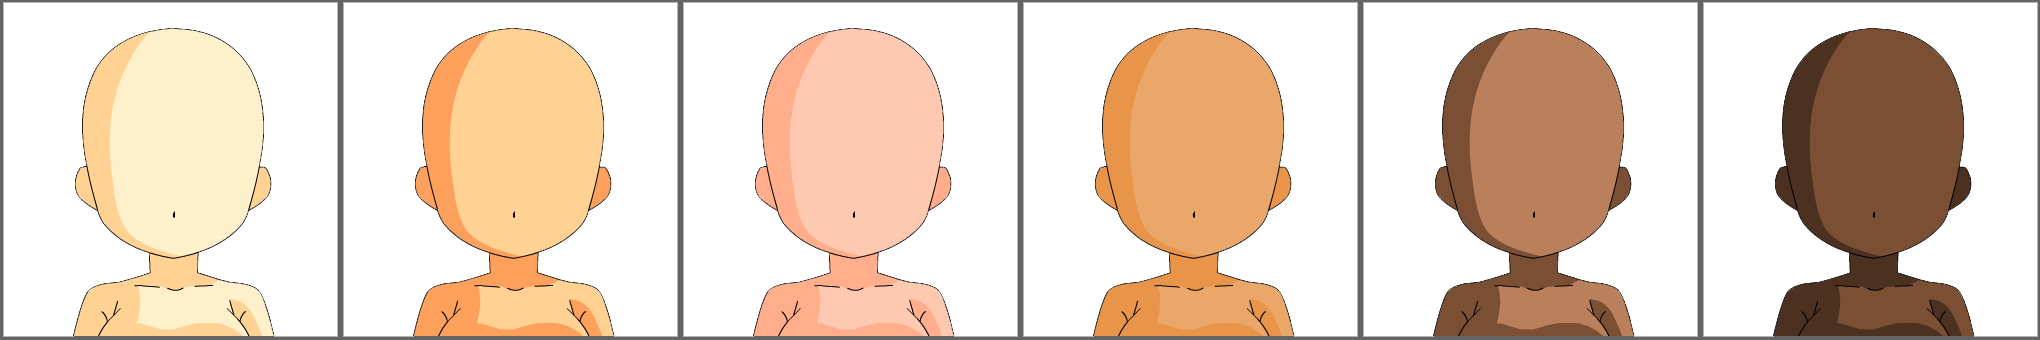
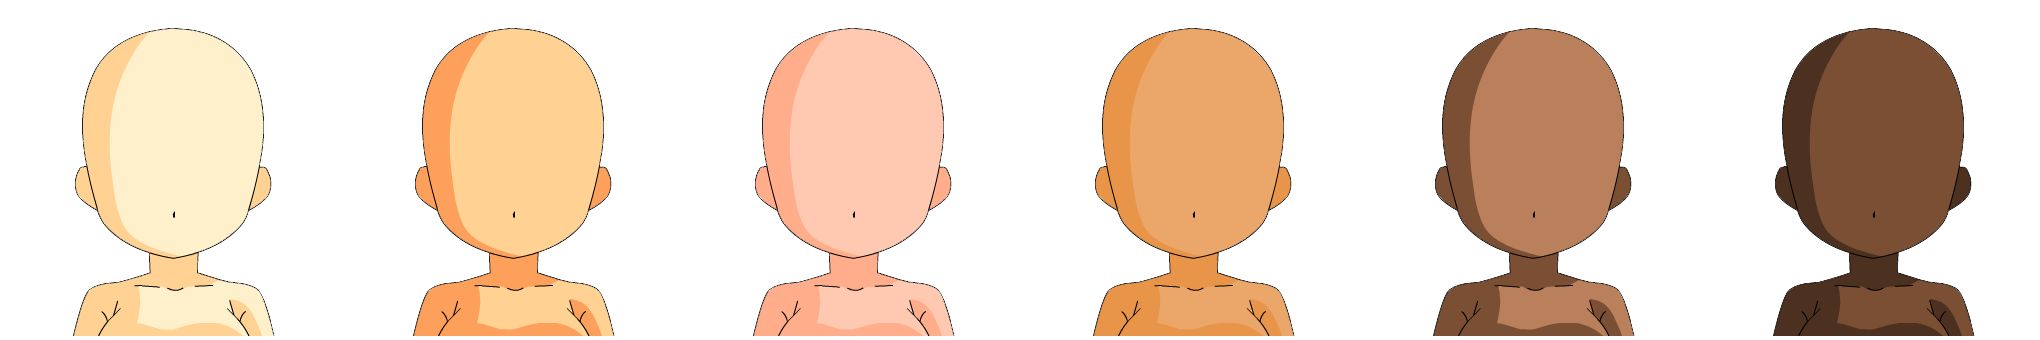
update

Changed region(s): [[0.0, 0.0, 1.0, 1.0]]

diff --git a/js/main.js b/js/main.js
@@ -24,9 +24,9 @@ var canvas3, ctx3;
 var canvas4, ctx4;
 var oBody, oLeg, oFoot, oAccessory, oBackground;
 
-var bodyScale = 0.5;
-var headPosX = 100;
-var headPosY = 100;
+var headScale = 0.35;
+var headPosX = 115;
+var headPosY = 0;
 
 //unknow
 var iSel = 0;
@@ -273,9 +273,12 @@ function clear() {
 
 function drawScene() {
     clear();
+    //ctx3
+    ctx3.drawImage(oBody.image, oBody.x2 + oBody.iSpr * oBody.w, oBody.y2, oBody.w, oBody.h, oBody.x, oBody.y, oBody.w, oBody.h);
+
     //ctx
     ctx.drawImage(oHead.image, oHead.x2 + oHead.iSpr * oHead.w, oHead.y2, oHead.w, oHead.h, oHead.x, oHead.y, oHead.w, oHead.h);
-    ctx3.drawImage(oHead.image, oHead.x2 + oHead.iSpr * oHead.w, oHead.y2, oHead.w, oHead.h, oHead.x, oHead.y, oHead.w*bodyScale, oHead.h*bodyScale);
+    ctx3.drawImage(oHead.image, oHead.x2 + oHead.iSpr * oHead.w, oHead.y2, oHead.w, oHead.h, oHead.x+headPosX, oHead.y+headPosY, oHead.w*headScale, oHead.h*headScale);
 
     //ctx.drawImage(oTop.image, oTop.x2 + oTop.iSpr * oTop.w, oTop.y2, oTop.w, oTop.h, oTop.x, oTop.y, oTop.w, oTop.h);
     // if (oColorTop.iPos > 0) {
@@ -294,7 +297,7 @@ function drawScene() {
     // }
 
     ctx.drawImage(oEyebrow.image, oEyebrow.x2 + oEyebrow.iSpr * oEyebrow.w, oEyebrow.y2, oEyebrow.w, oEyebrow.h, oEyebrow.x, oEyebrow.y, oEyebrow.w, oEyebrow.h);
-    ctx3.drawImage(oEyebrow.image, oEyebrow.x2 + oEyebrow.iSpr * oEyebrow.w, oEyebrow.y2, oEyebrow.w, oEyebrow.h, oEyebrow.x, oEyebrow.y, oEyebrow.w*bodyScale, oEyebrow.h*bodyScale);
+    ctx3.drawImage(oEyebrow.image, oEyebrow.x2 + oEyebrow.iSpr * oEyebrow.w, oEyebrow.y2, oEyebrow.w, oEyebrow.h, oEyebrow.x+headPosX, oEyebrow.y+headPosY, oEyebrow.w*headScale, oEyebrow.h*headScale);
     if (oColorEyebrow.iPos > 0) {
         var iCp = oColorEyebrow.iPos;
         var zdata = ctx.getImageData(0, 110, 340, 60);
@@ -313,7 +316,7 @@ function drawScene() {
 
 
     ctx.drawImage(oEye.image, oEye.x2 + oEye.iSpr * oEye.w, oEye.y2, oEye.w, oEye.h, oEye.x, oEye.y, oEye.w, oEye.h);
-    ctx3.drawImage(oEye.image, oEye.x2 + oEye.iSpr * oEye.w, oEye.y2, oEye.w, oEye.h, oEye.x, oEye.y, oEye.w*bodyScale, oEye.h*bodyScale);
+    ctx3.drawImage(oEye.image, oEye.x2 + oEye.iSpr * oEye.w, oEye.y2, oEye.w, oEye.h, oEye.x+headPosX, oEye.y+headPosY, oEye.w*headScale, oEye.h*headScale);
 
     if (oColorEye.iPos > 0) {
         var iCp = oColorEye.iPos;
@@ -347,7 +350,7 @@ function drawScene() {
     }
     //ctx2
     ctx2.drawImage(oFringe.image, oFringe.x2 + oFringe.iSpr * oFringe.w, oFringe.y2, oFringe.w, oFringe.h, oFringe.x, oFringe.y, oFringe.w, oFringe.h);
-    ctx3.drawImage(oFringe.image, oFringe.x2 + oFringe.iSpr * oFringe.w, oFringe.y2, oFringe.w, oFringe.h, oFringe.x, oFringe.y, oFringe.w*bodyScale, oFringe.h*bodyScale);
+    ctx3.drawImage(oFringe.image, oFringe.x2 + oFringe.iSpr * oFringe.w, oFringe.y2, oFringe.w, oFringe.h, oFringe.x+headPosX, oFringe.y+headPosY, oFringe.w*headScale, oFringe.h*headScale);
 
     if (oColors.iPos > 0) {
         var iCp = oColors.iPos;
@@ -380,7 +383,7 @@ function drawScene() {
         ctx3.putImageData(zdata, 0, 0);
     }
     ctx.drawImage(oMouth.image, oMouth.x2 + oMouth.iSpr * oMouth.w, oMouth.y2, oMouth.w, oMouth.h, oMouth.x, oMouth.y, oMouth.w, oMouth.h);
-    ctx3.drawImage(oMouth.image, oMouth.x2 + oMouth.iSpr * oMouth.w, oMouth.y2, oMouth.w, oMouth.h, oMouth.x, oMouth.y, oMouth.w*bodyScale, oMouth.h*bodyScale);
+    ctx3.drawImage(oMouth.image, oMouth.x2 + oMouth.iSpr * oMouth.w, oMouth.y2, oMouth.w, oMouth.h, oMouth.x+headPosX, oMouth.y+headPosY, oMouth.w*headScale, oMouth.h*headScale);
 
 
 
@@ -449,15 +452,15 @@ $(function() {
     var oBodyImage = new Image();
     oBodyImage.src = website_url + 'data/' + gender + 'body.png';
     oBodyImage.onload = function(){};
-    var oLegImage = new Image();
-    oLegImage.src = website_url + 'data/' + gender + 'leg.png';
-    oLegImage.onload = function(){};
-    var oFootImage = new Image();
-    oFootImage.src = website_url + 'data/' + gender + 'foot.png';
-    oFootImage.onload = function(){};
-    var oBackgroundImage = new Image();
-    oBackgroundImage.src = website_url + 'data/' + gender + 'background.png';
-    oBackgroundImage.onload = function(){};
+    // var oLegImage = new Image();
+    // oLegImage.src = website_url + 'data/' + gender + 'leg.png';
+    // oLegImage.onload = function(){};
+    // var oFootImage = new Image();
+    // oFootImage.src = website_url + 'data/' + gender + 'foot.png';
+    // oFootImage.onload = function(){};
+    // var oBackgroundImage = new Image();
+    // oBackgroundImage.src = website_url + 'data/' + gender + 'background.png';
+    // oBackgroundImage.onload = function(){};
 
 
     //face part color object
@@ -476,10 +479,10 @@ $(function() {
     oTop = new Top(0, 0, 0, 0, 340, 340, oTopsImage);
 
     //body part object
-    oBody = new Body(0,0,0,0,340,340,oBodyImage);
-    oLeg = new Leg(0,0,0,0,340,340,oLeg);
-    oFoot = new Foot(0,0,0,0,340,340,oFoot);
-    oBackground = new Background(0,0,0,0,340,340,oBackground);
+    oBody = new Body(0,0,0,0,340,477,oBodyImage);
+    // oLeg = new Leg(0,0,0,0,340,340,oLeg);
+    // oFoot = new Foot(0,0,0,0,340,340,oFoot);
+    // oBackground = new Background(0,0,0,0,340,340,oBackground);
 
     //refresh the canvas
     setInterval(drawScene, 100);

diff --git a/index.html b/index.html
@@ -28,8 +28,8 @@
           <div></div>
         </div>
       </div>
-      <div class="scene">
-        <canvas id="scene3" height="340" width="340" ></canvas>
+      <div class="scene fullbody">
+        <canvas id="scene3" height="477" width="340" ></canvas>
         <div class="loading">
           <div></div>
           <div></div>

diff --git a/css/main.css b/css/main.css
@@ -157,6 +157,9 @@ a,img,canvas { -webkit-user-select: none !important; }
   height: 340px;
   position: relative;
 }
+.scene.fullbody {
+  height: 477px;
+}
 #scene, #scene2 {
   position: absolute;
 }
